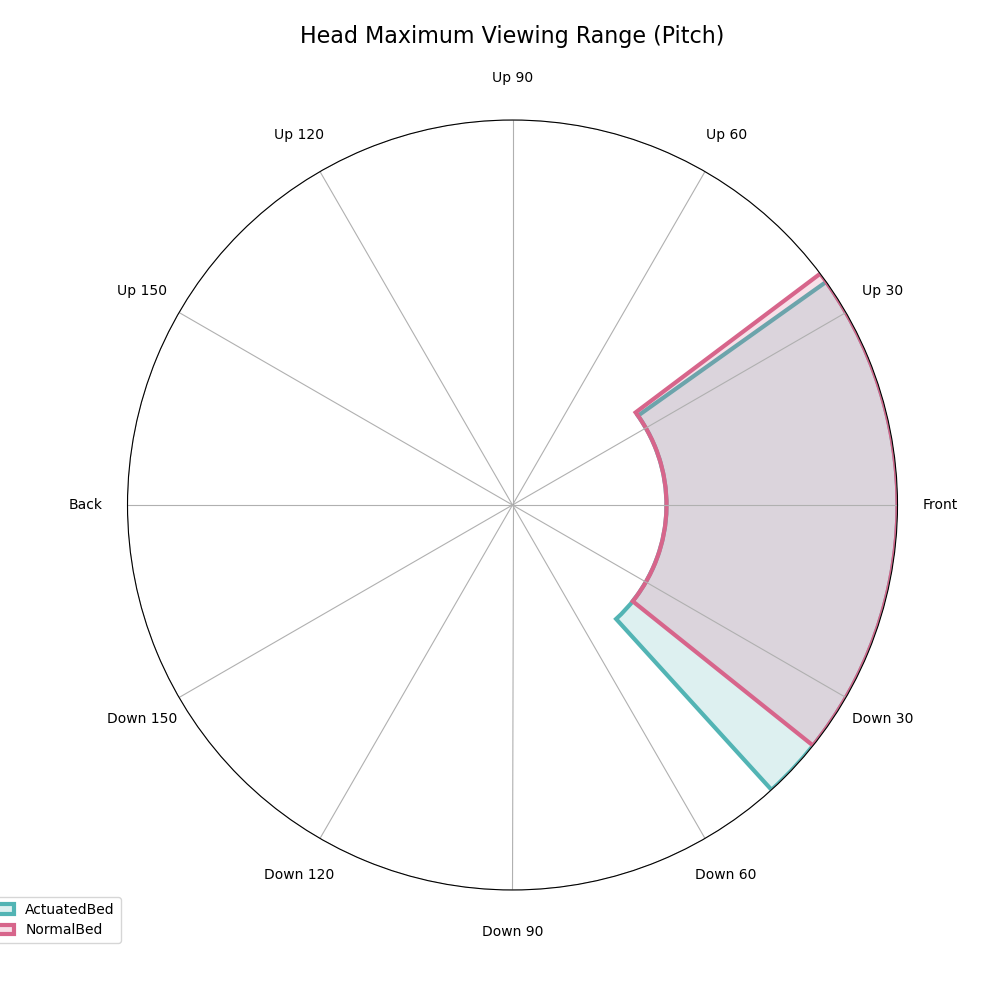
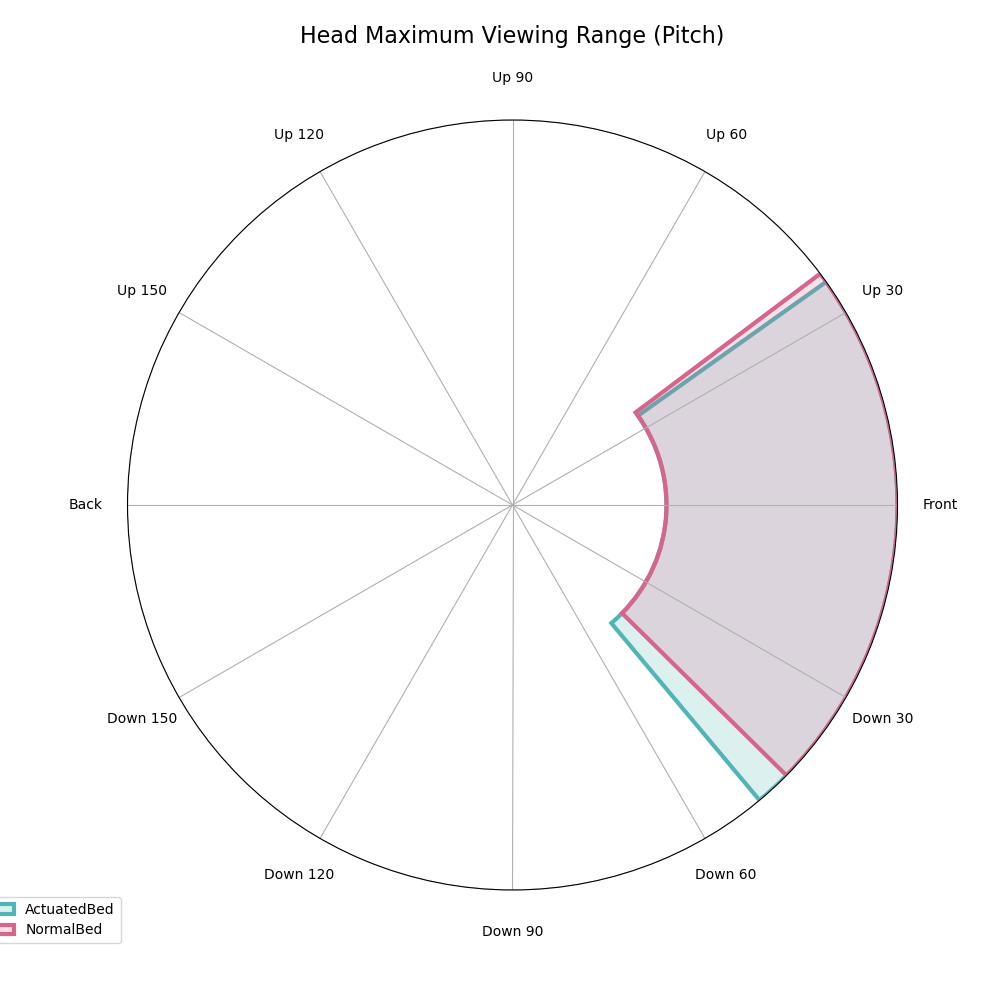
remove outlier for Summative::Formative Metric

Changed region(s): [[0.589, 0.589, 0.806, 0.806]]

diff --git a/Summative/Formative_DrawRangeFig.py b/Summative/Formative_DrawRangeFig.py
@@ -23,8 +23,11 @@ def ReadRawRsult():
         for direction in Directions:
             DataDict[part][direction] = dict()
             for condition in Conditions:
-                DataDict[part][direction][condition] = list()
+                DataDict[part][direction][condition] = dict()
+                for participant in Participants:
+                    DataDict[part][direction][condition][participant] = -1
 
+    outlierList = list()
     for participant in Participants:
         if participant == 10:
             continue
@@ -40,16 +43,50 @@ def ReadRawRsult():
                     headRangeList.append(abs(float(row["MaxViewingRange"])))
                     bodyRangeList.append(abs(float(row["MaxBodyRange"])))
                     if tcount == 3:
-                        DataDict["Head"][direction][condition].append(
-                            CalculateAvgAngle(headRangeList, 10)
-                        )
-                        DataDict["Body"][direction][condition].append(
-                            CalculateAvgAngle(bodyRangeList, 0)
-                        )
+                        haed_avg = CalculateAvgAngle(headRangeList, 10)
+                        if (haed_avg == 0):
+                            outlierList.append(f"Head_{participant}_{direction}")
+                        DataDict["Head"][direction][condition][participant] = haed_avg
+
+                        body_avg = CalculateAvgAngle(bodyRangeList, 0)
+                        if (body_avg == 0):
+                            outlierList.append(f"Body_{participant}_{direction}")
+                        DataDict["Body"][direction][condition][participant] = body_avg
+
                         headRangeList = list()
                         bodyRangeList = list()
 
+    return DataDict, outlierList
+
+def RemoveOutlier(DataDict, outlierList):
+    # Remove outlier
+    for outlier in outlierList:
+        part, participant, direction = outlier.split("_")
+        print(part, participant, direction)
+        for condition in Conditions:
+            DataDict[part][direction][condition][int(participant)] = -1
+
+    for part in ["Head", "Body"]:
+        for direction in Directions:
+            for condition in Conditions:
+                tmp_list = list()
+                for value in list(DataDict[part][direction][condition].values()):
+                    if value != -1:
+                        tmp_list.append(value)
+                DataDict[part][direction][condition] = tmp_list
+
     return DataDict
+
+def PrintDataDict2CSV(DataDict):
+    for part in ["Head", "Body"]:
+        filepath = f"{RootDir}/Processed Data/Summative_T1_{part}MaximumRange_Raw.csv"
+        with open(filepath, "w", newline="") as csvfile:
+            writer = csv.writer(csvfile)
+            writer.writerow(["Direction", "Condition", "Range"])
+            for direction in Directions:
+                for condition in Conditions:
+                    for value in DataDict[part][direction][condition]:
+                        writer.writerow([direction, condition, value])
 
 def CalculatePval(DataDict):
     for part in ["Head", "Body"]:
@@ -177,7 +214,9 @@ def DrawAllFigure(DataDict):
     )
 
 # Main
-DataDict = ReadRawRsult()
+DataDict, outlierList = ReadRawRsult()
+DataDict = RemoveOutlier(DataDict, outlierList)
+PrintDataDict2CSV(DataDict)
 CalculatePval(DataDict)
 AvgDict, StdDict = CalculateAVGSTD(DataDict)
 DrawAllFigure(AvgDict)
